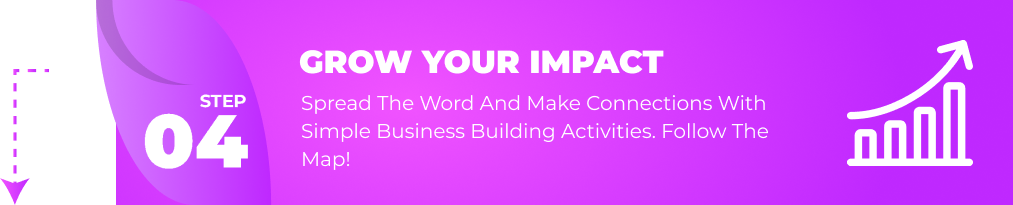
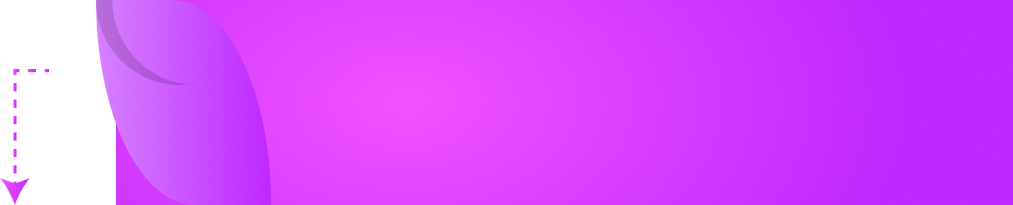
commit2

diff --git a/assets/css/style.css b/assets/css/style.css
@@ -138,12 +138,132 @@ iframe {
     border: none;
 }
 
-.midder-three img {
+/* .midder-three img {
     width: 100%;
     margin-top: 20px;
     margin-bottom: 20px;
-    display: block; /* Ensures images are block elements */
-    object-fit: cover; /* Optionally ensures images cover the area without distortion */
+    display: block;
+    object-fit: cover;
+} */
+
+.midder-three .secimgone,
+.midder-three .secimgtwo,
+.midder-three .secimgthree,
+.midder-three .secimgfour,
+.midder-three .secimgfive {
+    margin-top: 20px;
+    margin-bottom: 20px;
+}
+
+.midder-three .secimgone .textone {
+    padding-top: 5rem;
+    padding-bottom: 1rem;
+    padding-left: 4rem;
+}
+
+.midder-three .secimgtwo .textone {
+    padding-top: 5rem;
+    padding-bottom: 1rem;
+    padding-left: 24px;
+}
+
+.midder-three .secimgthree .textone {
+    padding-top: 5rem;
+    padding-bottom: 1rem;
+    padding-left: 4rem;
+}
+
+.midder-three .secimgfour .textone {
+    padding-top: 5rem;
+    padding-bottom: 1rem;
+    padding-left: 24px;
+}
+
+.midder-three .secimgfive .textone {
+    padding-top: 5rem;
+    padding-bottom: 1rem;
+    padding-left: 4rem;
+}
+
+.midder-three .secimgone .textthree {
+    padding-top: 36px;
+    padding-left: 70px;
+}
+
+.midder-three .secimgtwo .textthree {
+    padding-top: 36px;
+    padding-left: 8rem;
+}
+
+.midder-three .secimgthree .textthree {
+    padding-top: 36px;
+    padding-left: 70px;
+}
+
+.midder-three .secimgfour .textthree {
+    padding-top: 36px;
+    padding-left: 8rem;
+}
+
+.midder-three .secimgfive .textthree {
+    padding-top: 36px;
+    padding-left: 70px;
+}
+
+.midder-three .secimgone .texttwo {
+    padding-top: 40px;
+    padding-left: 30px;
+}
+
+.midder-three .secimgtwo .texttwo {
+    padding-top: 40px;
+    padding-left: 20px;
+    width: 34rem;
+}
+
+.midder-three .secimgthree .texttwo {
+    padding-top: 40px;
+    padding-left: 30px;
+}
+
+.midder-three .secimgfour .texttwo {
+    padding-top: 40px;
+    padding-left: 20px;
+    width: 34rem;
+}
+
+.midder-three .secimgfive .texttwo {
+    padding-top: 30px;
+    padding-left: 50px;
+}
+
+
+.midder-three .secimgone .texttwo h2,
+.midder-three .secimgtwo .texttwo h2,
+.midder-three .secimgthree .texttwo h2,
+.midder-three .secimgfour .texttwo h2,
+.midder-three .secimgfive .texttwo h2 {
+    color: #FFF;
+    font-family: 'Montserrat', sans-serif;
+    font-size: 32px;
+    font-style: normal;
+    font-weight: 900;
+    line-height: normal;
+    text-transform: uppercase;
+}
+
+.midder-three .secimgone .texttwo h3,
+.midder-three .secimgtwo .texttwo h3,
+.midder-three .secimgthree .texttwo h3,
+.midder-three .secimgfour .texttwo h3,
+.midder-three .secimgfive .texttwo h3 {
+    color: #FFF;
+    font-family: 'Montserrat', sans-serif;
+    font-size: 20px;
+    font-style: normal;
+    font-weight: 400;
+    line-height: 28px;
+    text-transform: capitalize;
 }
 
 
@@ -178,9 +298,31 @@ iframe {
     margin-bottom: 0;
 }
 
-.secimgfive {
-    padding-bottom: 10rem;
+.secimgtwo .row,
+.secimgfour .row{
+    margin-left: 8rem;
 }
+
+.midder-three .secimgone {
+    background: url('../img/secimgone.png') center center / 100% 100% no-repeat;
+}
+
+.midder-three .secimgtwo {
+    background: url('../img/secimgtwo.png') center center / 100% 100% no-repeat;
+}
+
+.midder-three .secimgthree {
+    background: url('../img/secimgthree.png') center center / 100% 100% no-repeat;
+}
+
+.midder-three .secimgfour {
+    background: url('../img/secimgfour.png') center center / 100% 100% no-repeat;
+}
+
+.midder-three .secimgfive {
+    background: url('../img/secimgfive.png') left center / 90% 100% no-repeat;
+}
+
 
 @media (max-width: 768px) {
     .hero-section {
@@ -245,6 +387,22 @@ iframe {
         padding-bottom: 2rem;
     }
 }
+
+@media (max-width: 1400px) {
+    .midder-three .container {
+        padding-left: 100px;
+        padding-right: 100px;
+    }
+    .iframe-container {
+        width: 80%;
+        height: 60vh;
+        box-shadow: 0px 4px 15px rgba(0, 0, 0, 0.8);
+        overflow: hidden;
+        position: relative;
+        left: 10%;
+        right: 0;
+    }
+  }
 
 /* 
 @media screen and (min-width: 320px) and (max-width: 520px) {

diff --git a/index.php b/index.php
@@ -102,39 +102,128 @@
                 <div class="row">
                     <div class="col-md-10">
                         <div class="secimgone">
-                            <img src="assets/img/secimgone.png">
+                            <div class="row">
+                                <div class="col-md-2">
+                                    <div class="textone">
+                                        <img src="assets/img/secimgone-txt1.png">
+                                    </div>
+                                </div>
+                                <div class="col-md-6">
+                                    <div class="texttwo">
+                                        <h2>Set Your Goals</h2>
+                                        <h3>Discover what's possible and set your income and impact targets.</h3>
+                                    </div>
+                                </div>
+                                <div class="col-md-2">
+                                    <div class="textthree">
+                                        <img src="assets/img/secimgone-txt3.png">
+                                    </div>
+                                </div>
+                            </div>
                         </div>
                     </div>
                 </div>
                 <div class="row">
                     <div class="col-md-10 offset-md-2">
                         <div class="secimgtwo">
-                            <img src="assets/img/secimgtwo.png">
-                        </div>
-                    </div>
-                </div>
-                <div class="row">
-                    <div class="col-md-10">
-                        <div class="secimgthree">
-                            <img src="assets/img/secimgthree.png">
-                        </div>
-                    </div>
-                </div>
-                <div class="row">
-                    <div class="col-md-10 offset-md-2">
-                        <div class="secimgfour">
-                            <img src="assets/img/secimgfour.png">
-                        </div>
-                    </div>
-                </div>
-                <div class="row">
-                    <div class="col-md-10">
-                        <div class="secimgfive">
-                            <img src="assets/img/secimgfive.png">
+                            <div class="row">
+                                <div class="col-md-2">
+                                <div class="textone">
+                                    <img src="assets/img/secimgtwo-txt1.png">
+                                </div>
+                            </div>
+                            <div class="col-md-6">
+                                <div class="texttwo">
+                                    <h2>Practice Calls</h2>
+                                    <h3>Invite friends to help you practice calls as you prepare to
+                                        launch your business.</h3>
+                                </div>
+                            </div>
+                            <div class="col-md-2">
+                                <div class="textthree">
+                                    <img src="assets/img/secimgtwo-txt3.png">
+                                </div>
+                            </div>
                         </div>
                     </div>
                 </div>
             </div>
+            <div class="row">
+                <div class="col-md-10">
+                    <div class="secimgthree">
+                        <div class="row">
+                            <div class="col-md-2">
+                                <div class="textone">
+                                    <img src="assets/img/secimgthree-txt1.png">
+                                </div>
+                            </div>
+                            <div class="col-md-6">
+                                <div class="texttwo">
+                                    <h2>Launch Your Business</h2>
+                                    <h3>Follow our step-by-step
+                                        process for your “GRAND OPENING”!</h3>
+                                </div>
+                            </div>
+                            <div class="col-md-2">
+                                <div class="textthree">
+                                    <img src="assets/img/secimgthree-txt3.png">
+                                </div>
+                            </div>
+                        </div>
+                    </div>
+                </div>
+            </div>
+            <div class="row">
+                <div class="col-md-10 offset-md-2">
+                    <div class="secimgfour">
+                        <div class="row">
+                            <div class="col-md-2">
+                                <div class="textone">
+                                    <img src="assets/img/secimgfour-txt1.png">
+                                </div>
+                            </div>
+                            <div class="col-md-6">
+                                <div class="texttwo">
+                                    <h2>Grow Your Impact</h2>
+                                    <h3>Spread the word and make connections with simple Business Building
+                                        Activities. Follow the map!</h3>
+                                </div>
+                            </div>
+                            <div class="col-md-2">
+                                <div class="textthree">
+                                    <img src="assets/img/secimgfour-txt3.png">
+                                </div>
+                            </div>
+                        </div>
+                    </div>
+                </div>
+            </div>
+            <div class="row">
+                <div class="col-md-10">
+                    <div class="secimgfive">
+                        <div class="row">
+                            <div class="col-md-2">
+                                <div class="textone">
+                                    <img src="assets/img/secimgfive-txt1.png">
+                                </div>
+                            </div>
+                            <div class="col-md-6">
+                                <div class="texttwo">
+                                    <h2>Pay It Forward</h2>
+                                    <h3>Multiply your impact and income! Show others how to launch their own
+                                        business with this proven blueprint.</h3>
+                                </div>
+                            </div>
+                            <div class="col-md-2">
+                                <div class="textthree">
+                                    <img src="assets/img/secimgfive-txt3.png">
+                                </div>
+                            </div>
+                        </div>
+                    </div>
+                </div>
+            </div>
+        </div>
         </div>
     </section>
     <section class="footer">
